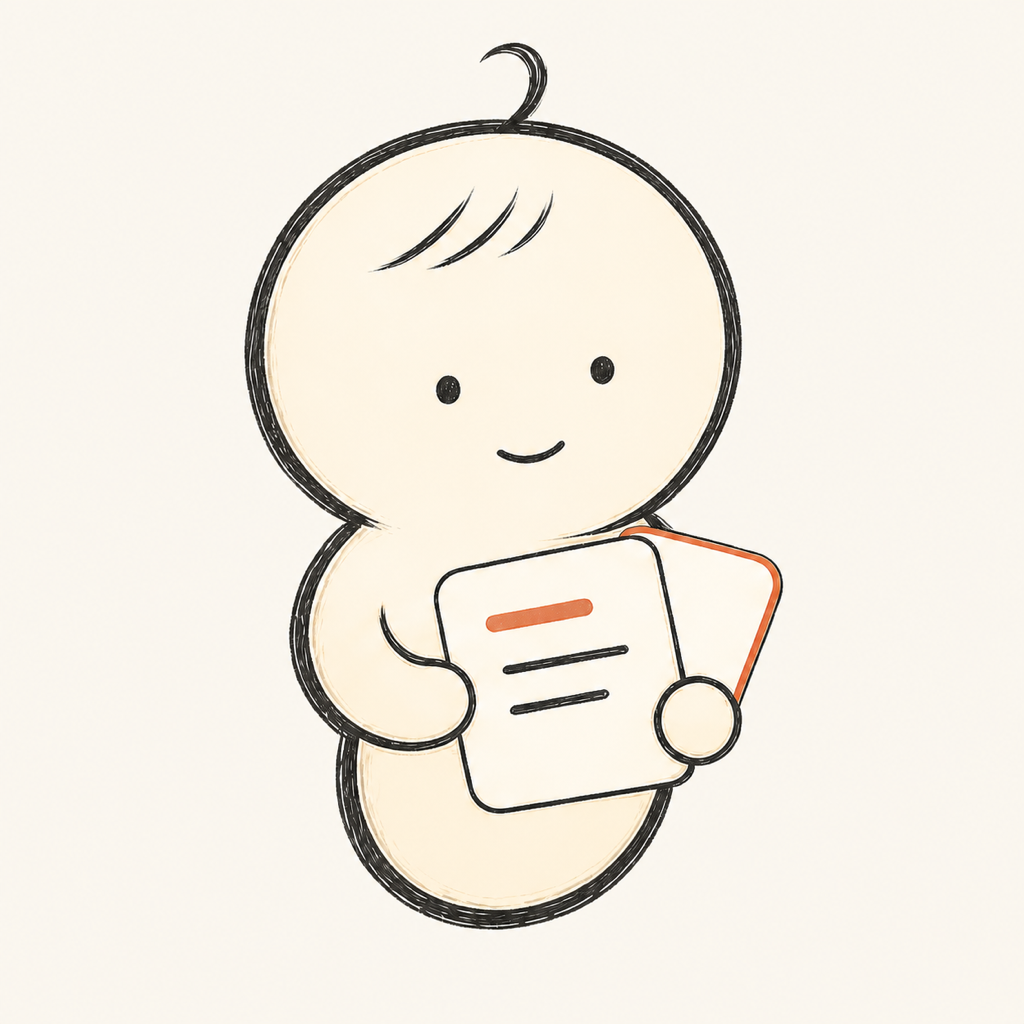
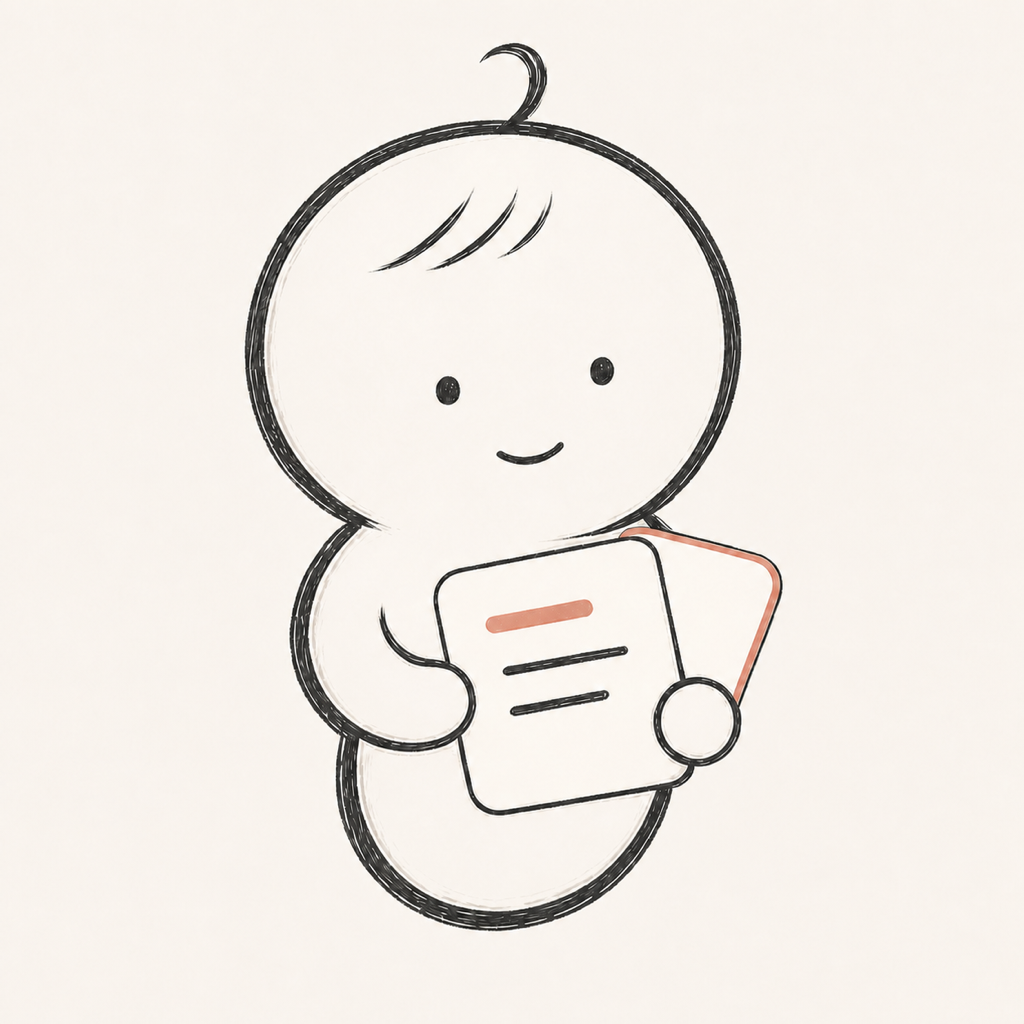
品牌：按既有草图校正吉祥物与图标配色

diff --git a/DESIGN.md b/DESIGN.md
@@ -397,7 +397,7 @@ Agent 服务 就绪 · 麦克风已允许 · 通知已允许
 - 复习卡不放真实英文、产品 Logo 或可阅读题目；使用小型陶土色标题条、两三条长短不一的石墨内容线和轻微错位的第二张卡建立知识资料语义。完整吉祥物中的卡片可有极浅的哑光纸纹和轻微纤维感，App 图标与小 Logo 必须简化为平面结构，不保留缩小后会变脏的材质细节。
 - App 图标中的默认表情采用居中、闭口的温柔微笑，不使用偏向一侧的不对称方牙笑。居中两颗小板牙保留为吉祥物说话或鼓励状态的候选表情，不作为当前常驻 Logo 表情；无牙开口版本不用于静态图标。
 - V8 正式品牌资产以 V7 左侧为唯一静态方向，通过 GPT Image 生成工作流分别产出完整抱卡吉祥物、彩色 App 图标与单色标志位图母版；不再用 SVG、Bezier 路径或代码重新描画角色。代码仅允许对选定的模型母图做无内容创作的裁切、缩放、圆角蒙版与格式导出。
-- V8 当前角色使用奶油黄身体、石墨铅笔轮廓、暖白知识卡与陶土珊瑚图标底色；颜色与手绘纹理以选定模型母图为准，不再用人工矢量色板覆盖。产品正式名称尚未确认，因此本轮不制作或锁定 Wordmark。
+- V8 当前角色使用接近纸白的极淡奶油身体、柔和石墨铅笔轮廓、略亮的暖白知识卡与低饱和陶土粉橙图标底色；颜色关系以已接受的 V7 左侧草图为准。不得把角色推成明显黄色、金色或桃色，也不得把图标底推成高饱和橙红、中心发光或暗角渐变。产品正式名称尚未确认，因此本轮不制作或锁定 Wordmark。
 - 模型曾把棋盘格直接画入 RGB 图片，不能视为透明资产；当前完整吉祥物使用统一暖白产品底，真正透明 cutout 需单独通过文件 Alpha 验证后才能交付。App 图标母图可以通过打包脚本生成 macOS 16–1024 px 资源，但构建成功不代表 Dock／Finder 视觉已经验收。Spine 拆件与动态表情也不由静态位图自动证明。
 - 可见证据：第一轮未通过稿为 `mascot-concept-v1.png` 与 `app-icon-logo-concept-v1.png`；第二轮性格与动作方向稿为 `mascot-character-study-v2.png`；正常双耳耳机会话状态稿为 `headphones-session-storyboard-v3.png`；`mascot-bangs-ahoge-study-v4.png` 已由 Rex 接受为当前角色母形方向；`mascot-logo-color-study-v5.png` 是第一张角色—耳机—App 图标—Logo 配色关系稿；`mascot-review-card-logo-study-v6.png` 比较抱卡、递卡与翻卡三种复习语义构图；`mascot-card-expression-study-v7.png` 左侧已被 Rex 接受为当前静态品牌方向；`brand/raster/` 承载 V8 选定的模型位图母版，生成约束与失败边界见 `brand/GENERATION.md`。提示词、取舍与证据边界见同目录 `BRIEF.md`。
 

diff --git a/design-explorations/review-agent/BRIEF.md b/design-explorations/review-agent/BRIEF.md
@@ -7,6 +7,7 @@
 
 - Rex 已否决把 V7 角色重新描成 SVG 的生产路径。V8 改为以 V4 锁定角色身份、以 V7 左侧锁定闭口微笑与抱卡构图，由 GPT Image 生成工作流产出正式位图内容；人工只负责选图和工程打包，不重新绘制角色。
 - `brand/raster/mascot-master-v8.png` 是统一暖白底的完整吉祥物母图；`brand/raster/app-icon-master-v8.png` 是陶土色 App 图标母图；`brand/raster/mark-master-v8.png` 是单色标志母图。三者均由模型分别生成，并以同一角色身份约束。
+- V8 首轮模型母图的角色偏黄，App 图标底偏高饱和橙红且带中心晕染，与 V7 左侧草图不一致；修正版以该草图为唯一颜色参考，改为近纸白淡奶油角色、略亮暖白卡片、柔和石墨线和低饱和陶土粉橙实底，单色标志则使用中性暖灰白底。
 - 代码只能对 App 图标母图进行裁切、缩放、圆角 Alpha 蒙版和 PNG 导出，不能补画五官、手臂、卡片、刘海或呆毛，也不能用 SVG 重新解释模型线条。
 - 内置生成工具两次把透明棋盘格画进 RGB 文件，因此当前完整吉祥物明确使用暖白产品底，不把假透明当作正式透明 cutout。透明角色资源需要后续单独提取并以 `hasAlpha: yes` 验证。
 - App 图标母图已导出为 16–1024 px 工程资源，`brand/exports/brand-acceptance-board.png` 已检查 128、64、32 与 16 px，并通过 macOS Debug 构建；真实 Dock／Finder 视觉仍待 Rex 验收。

diff --git a/brand/GENERATION.md b/brand/GENERATION.md
@@ -18,6 +18,14 @@
 - 小尺寸优先：头部占上半区，卡片占下半区；不添加语音、AI 或学习通用符号。
 - 工程只对选定母图做圆角蒙版与尺寸导出，不重画角色。
 
+## V8.1 颜色校正
+
+- 颜色唯一参考：Rex 再次提供的 V7 左侧草图裁图；只读取颜色和色温，不改变 V8 角色造型与构图。
+- 完整吉祥物：大幅降低黄色饱和度，使身体接近纸白的极淡奶油；卡片略亮；陶土标题条和后卡边缘更柔和、更偏粉土色；背景使用中性暖灰白。
+- App 图标：把高饱和橙红改成低饱和陶土粉橙，移除中心发光、橙色晕染、暗角和明显渐变；同步降低角色黄色。
+- 单色标志：移除偏黄底色，使用中性暖灰白纸面与单一柔和石墨色。
+- 三项修正均为模型定向颜色编辑；工程没有人工改色或重画角色。
+
 ## 单色标志
 
 - 目标：同一角色的一色石墨提炼，保留头部、呆毛、刘海、闭口微笑、身体与知识卡。
